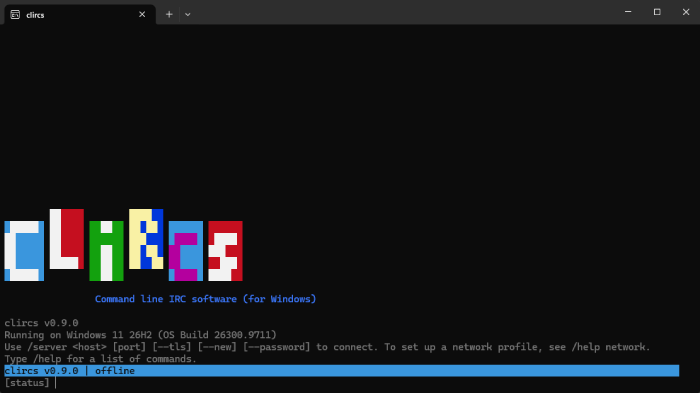
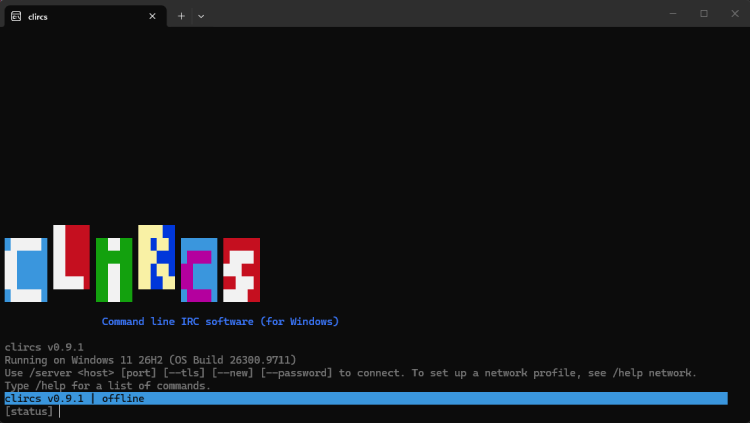
Prepare v0.9.1 release

diff --git a/README.md b/README.md
@@ -12,7 +12,7 @@ Additionally, while clircs does support some IRCv3 capabilities, it's not on boa
 
 ## Current Version
 
-Version 0.9.0 is a preview release, which includes typical (plus additional!) IRC commands, support for multiple networks, TLS, SASL, DCC (and SDCC), bouncer connectivity, channel management, flood protection, logging, and you can add your own scripts by way of Jint (JavaScript).
+Version 0.9.1 is a preview release, which includes typical (plus additional!) IRC commands, support for multiple networks, TLS, SASL, DCC (and SDCC), bouncer connectivity, channel management, flood protection, logging, and you can add your own scripts by way of Jint (JavaScript).
 
 ## Installing
 
@@ -20,10 +20,10 @@ clircs runs on 64-bit Windows 10 or 11. The packaged release comes as a ZIP in b
 
 ### Get the Packaged Release
 
-- **Self-contained (`clircs-v0.9.0-win-x64-self-contained.zip`):** The bigger download, with .NET 10 included. You don't have to install .NET separately, meaning this is the one to grab if you just want to run clircs.
-- **Framework-dependent (`clircs-v0.9.0-win-x64-framework-dependent.zip`):** The smaller download. It requires that you install (or have already installed) the [.NET 10 Runtime](https://dotnet.microsoft.com/en-us/download/dotnet/10.0) for Windows x64. You do not need the full Desktop Runtime or the SDK.
+- **Self-contained (`clircs-v0.9.1-win-x64-self-contained.zip`):** The bigger download, with .NET 10 included. You don't have to install .NET separately, meaning this is the one to grab if you just want to run clircs.
+- **Framework-dependent (`clircs-v0.9.1-win-x64-framework-dependent.zip`):** The smaller download. It requires that you install (or have already installed) the [.NET 10 Runtime](https://dotnet.microsoft.com/en-us/download/dotnet/10.0) for Windows x64. You do not need the full Desktop Runtime or the SDK.
 
-[Snag the ZIP](https://github.com/rekkals/clircs/releases/tag/v0.9.0) you need, extract its contents wherever you want, and run `clircs.exe`.
+[Snag the ZIP](https://github.com/rekkals/clircs/releases/tag/v0.9.1) you need, extract its contents wherever you want, and run `clircs.exe`.
 
 **HEADS UP:** Windows ShitScreen is probably going to complain about it being an unknown publisher. Just click More Info, then Run Anyway. Do NOT disable SmartScreen system-wide on your machine. If it doesn't let you Run Anyway, you can try building clircs from source instead.
 
@@ -31,7 +31,7 @@ clircs runs on 64-bit Windows 10 or 11. The packaged release comes as a ZIP in b
 
 First things first: grab the [.NET 10 SDK](https://dotnet.microsoft.com/en-us/download/dotnet/10.0).
 
-Then head over to the [0.9.0 release page](https://github.com/rekkals/clircs/releases/tag/v0.9.0), download **Source code (zip)**, and extract it. Open PowerShell in the extracted folder where `clircs.sln` is located and run:
+Then head over to the [0.9.1 release page](https://github.com/rekkals/clircs/releases/tag/v0.9.1), download **Source code (zip)**, and extract it. Open PowerShell in the extracted folder where `clircs.sln` is located and run:
 
 ```
 dotnet build clircs.sln -c Release
@@ -90,7 +90,7 @@ Use `/help` for a list of commands and `/help <command>` for help with a `<comma
 
 [SCRIPTING](SCRIPTING.md) includes info on adding scripts via Jint.
 
-[VERSIONS](VERSIONS.txt) shows the pre-GitHub-upload version history.
+[VERSIONS](VERSIONS.txt) shows the version history.
 
 ## Licensing
 

diff --git a/DOCUMENTATION.md b/DOCUMENTATION.md
@@ -4,7 +4,7 @@ Hey! This is the (much) longer reference. If all you want to do is get shit runn
 
 ## Installation
 
-clircs runs on 64-bit Windows 10 and 11. The v0.9.0 packaged release comes as a ZIP in two versions: one with .NET 10 included and one that uses the .NET 10 Runtime already installed on your computer. If you're building clircs from source, you'll need the SDK instead.
+clircs runs on 64-bit Windows 10 and 11. The v0.9.1 packaged release comes as a ZIP in two versions: one with .NET 10 included and one that uses the .NET 10 Runtime already installed on your computer. If you're building clircs from source, you'll need the SDK instead.
 
 ### Get the Precompiled Package
 
@@ -17,7 +17,7 @@ Extract all of the ZIP's contents wherever you want and run `clircs.exe`.
 
 That's it.
 
-There is no installer for v0.9.0. Extracting the ZIP **is** the installation.
+There is no installer for v0.9.1. Extracting the ZIP **is** the installation.
 
 Except for the part about Windows ShitScreen potentially whining about it being an unknown publisher. If it says that, click More Info, then Run Anyway. Also, it may refuse to run it at all. If it does, do not, under any circumstances, disable SmartScreen system-wide on your machine. Just build it from source ... and then hope Windows will let you run **that**.
 
@@ -25,7 +25,7 @@ Except for the part about Windows ShitScreen potentially whining about it being 
 
 Get the [.NET 10 SDK](https://dotnet.microsoft.com/en-us/download/dotnet/10.0) first. You can't just install the Runtime.
 
-Go to the [0.9.0 release page](https://github.com/rekkals/clircs/releases/tag/v0.9.0) and download **Source code (zip)**. Extract that, get the folder with `clircs.sln` open in PowerShell and run:
+Go to the [0.9.1 release page](https://github.com/rekkals/clircs/releases/tag/v0.9.1) and download **Source code (zip)**. Extract that, get the folder with `clircs.sln` open in PowerShell and run:
 
 ```
 dotnet build clircs.sln -c Release
